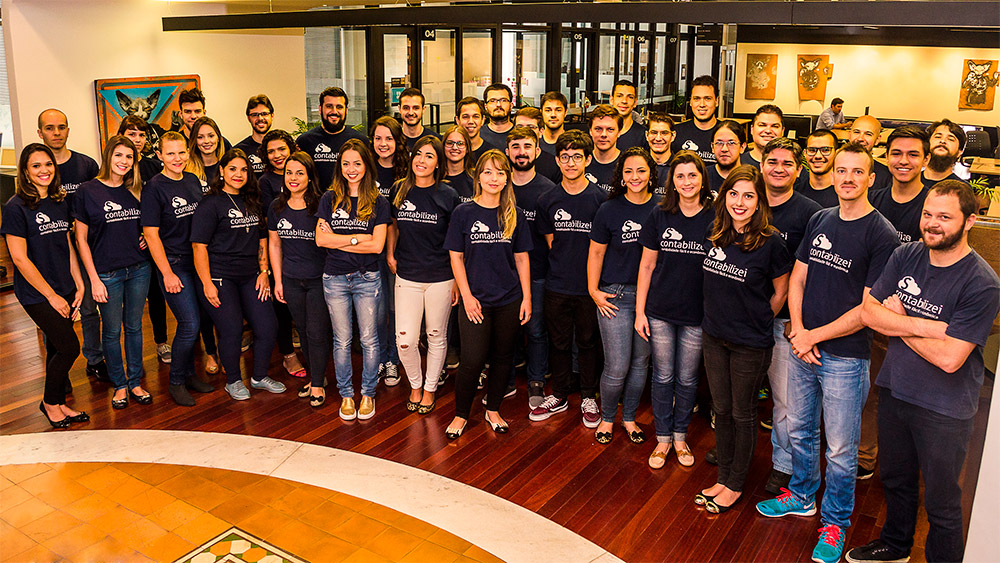
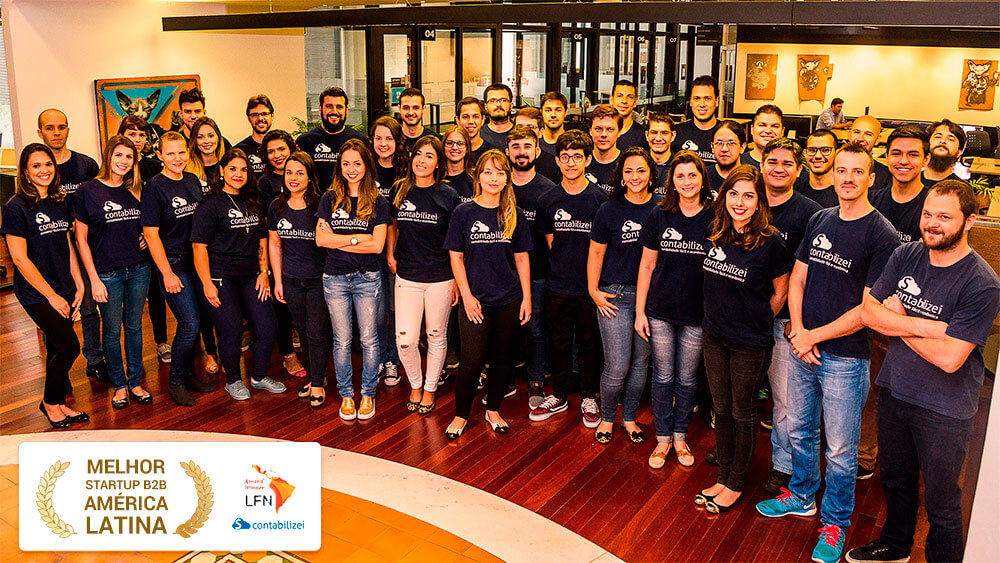
Atualização página equipe.

diff --git a/contabilizei-contabilidade-online/index.html b/contabilizei-contabilidade-online/index.html
@@ -163,7 +163,7 @@
 	            <br><p><strong>Missão:</strong> somos apaixonados por contabilidade e queremos democratizar os serviços contábeis para que micro e pequenos empresários possam manter seus negócios regularizados através de uma contabilidade fácil e econômica.</p>
 	          </div>
             <div class="col-lg-6 col-md-6 col-sm-6" align="center">
-				<img alt="equipe contabilizei contabilidade online" retina="true" src="/assets/img/equipe.jpg" class="img-thumbnail img-responsive">
+				<a href="/contabilidade-online/contabilizei-eleita-melhor-empresa-b2b-america-latina/" target="_blank"><img alt="equipe contabilizei contabilidade online" retina="true" src="/assets/img/equipe.jpg" class="img-thumbnail img-responsive"></a>
             </div><!-- /.col-lg-6 -->
 	        </div> <!--row-->
         </div>

diff --git a/index.html b/index.html
@@ -195,7 +195,7 @@
         
       <div class="jumbotron text-center"> 
           <div class="container">
-                <a href="/contabilidade-online/contabilizei-eleita-melhor-empresa-b2b-america-latina/" target="_blank" alt="Contabilizei eleita melhor empresa B2B da América Latina"><img src="/assets/img/badge.png" style="margin:30px 0 10px 0"></a>
+                <a href="/contabilidade-online/contabilizei-eleita-melhor-empresa-b2b-america-latina/" target="_blank" alt="Contabilizei eleita melhor empresa B2B da América Latina"><img class="img-responsive" src="/assets/img/badge.png" style="margin:30px 0 10px 0"></a>
                 <h1 class="primary" style="margin:0 0 30px 0"> Escritório de contabilidade online  <br class="hidden-xs">a partir de R$49/mês.</h1>
               
                            
